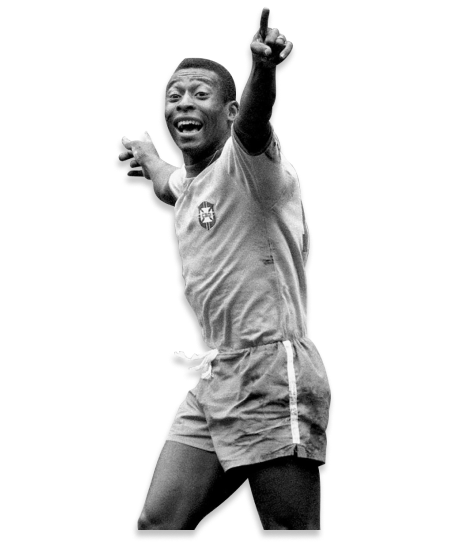
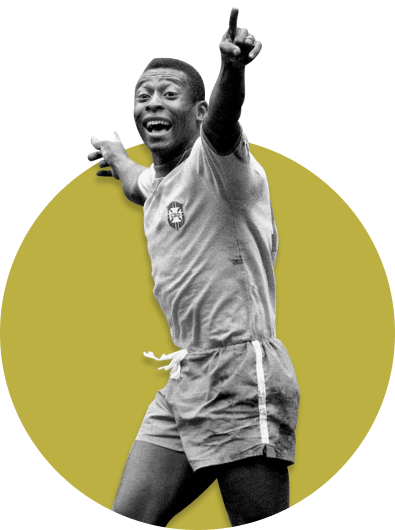
updated site

diff --git a/3cruyff.html b/3cruyff.html
@@ -12,26 +12,26 @@
           <nav>
               <ul>
                   <li><a href="1pele.html">Pelé<a></li>
-                  <li><a href="#">link<a></li>
-                  <li><a href="#">link<a></li>
-                  <li><a href="#">link<a></li>
+                  <li><a href="2maradona.html">Maradona<a></li>
+                  <li><a href="3cruyff.html">Cruyff<a></li>
+                  <li><a href="4messi.html">Messi<a></li>
                 </ul>
         </nav>
     </header>
       <main>
           <section class="two-col">
               <div class="player">
-                  <div class="circle"></div>
                   <div class="player-pic">
-                      <img src="images/pele.png">
+                      <img src="images/cruyff.png">
                         </div>
                   </div>
                 <div class="content">
-                    <h3>Pelé</h3>
-                    <h2>Edson Arantes do Nascimento</h2>
-                    <p>Bursting onto the scene as a 17-year-old looking to avenge the tears of his father when Brazil lost the 1950 World Cup final, Pele would go on to win the World Cup on three separate occasions and make Brazil the football nation.<br><br>
-                        The Brazilian's peak is fable at this point, possibly because the world didn't really get to see it due to his injury at the 1962 World Cup, but more aptly because between 1958 and 1962, no one has ever scored more goals than him.
-                        <br><br>In fact, no footballer has ever scored more goals than Pele ever.</p>
+                    <img src="images/dutchflag.svg">
+                    <h3>Cruyff</h3>
+                    <h2>Hendrik Johannes Cruijff</h2>
+                      <p>It takes a special type of footballer to invent his own skill move - Aiden McGeady aside, obviously. Johan Cruyff did both.</p>
+                      <p>A now mythical figure, Cruyff is arguably the most influential footballer of all time; and one of the most talented too.</p>
+                      <p>The centrepiece of the 'Total Football' era, Cruyff made beautiful teams successful; a feat so incredible that we still see its effects to this day.</p>
                 
                 </div>
           </section>

diff --git a/1pele.html b/1pele.html
@@ -12,26 +12,26 @@
           <nav>
               <ul>
                   <li><a href="1pele.html">Pelé<a></li>
-                  <li><a href="#">link<a></li>
-                  <li><a href="#">link<a></li>
-                  <li><a href="#">link<a></li>
+                  <li><a href="2maradona.html">Maradona<a></li>
+                  <li><a href="3cruyff.html">Cruyff<a></li>
+                  <li><a href="4messi.html">Messi<a></li>
                 </ul>
         </nav>
     </header>
       <main>
           <section class="two-col">
               <div class="player">
-                  <div class="circle"></div>
                   <div class="player-pic">
                       <img src="images/pele.png">
                         </div>
                   </div>
                 <div class="content">
+                    <img src="images/brazilflag.svg">
                     <h3>Pelé</h3>
                     <h2>Edson Arantes do Nascimento</h2>
-                    <p>Bursting onto the scene as a 17-year-old looking to avenge the tears of his father when Brazil lost the 1950 World Cup final, Pele would go on to win the World Cup on three separate occasions and make Brazil the football nation.<br><br>
-                        The Brazilian's peak is fable at this point, possibly because the world didn't really get to see it due to his injury at the 1962 World Cup, but more aptly because between 1958 and 1962, no one has ever scored more goals than him.
-                        <br><br>In fact, no footballer has ever scored more goals than Pele ever.</p>
+                    <p>Bursting onto the scene as a 17-year-old looking to avenge the tears of his father when Brazil lost the 1950 World Cup final, Pele would go on to win the World Cup on three separate occasions and make Brazil the football nation.</p>
+                    <p>The Brazilian's peak is fable at this point, possibly because the world didn't really get to see it due to his injury at the 1962 World Cup, but more aptly because between 1958 and 1962, no one has ever scored more goals than him.</p>
+                    <p>In fact, no footballer has ever scored more goals than Pele ever.</p>
                 
                 </div>
           </section>

diff --git a/index.html b/index.html
@@ -12,26 +12,26 @@
           <nav>
               <ul>
                   <li><a href="1pele.html">Pelé<a></li>
-                  <li><a href="#">link<a></li>
-                  <li><a href="#">link<a></li>
-                  <li><a href="#">link<a></li>
+                  <li><a href="2maradona.html">Maradona<a></li>
+                  <li><a href="3cruyff.html">Cruyff<a></li>
+                  <li><a href="4messi.html">Messi<a></li>
                 </ul>
         </nav>
     </header>
       <main>
           <section class="two-col">
               <div class="player">
-                  <div class="circle"></div>
                   <div class="player-pic">
                       <img src="images/pele.png">
                         </div>
                   </div>
                 <div class="content">
+                    <img src="images/brazilflag.svg">
                     <h3>Pelé</h3>
                     <h2>Edson Arantes do Nascimento</h2>
-                    <p>Bursting onto the scene as a 17-year-old looking to avenge the tears of his father when Brazil lost the 1950 World Cup final, Pele would go on to win the World Cup on three separate occasions and make Brazil the football nation.<br><br>
-                        The Brazilian's peak is fable at this point, possibly because the world didn't really get to see it due to his injury at the 1962 World Cup, but more aptly because between 1958 and 1962, no one has ever scored more goals than him.
-                        <br><br>In fact, no footballer has ever scored more goals than Pele ever.</p>
+                    <p>Bursting onto the scene as a 17-year-old looking to avenge the tears of his father when Brazil lost the 1950 World Cup final, Pele would go on to win the World Cup on three separate occasions and make Brazil the football nation.</p>
+                    <p>The Brazilian's peak is fable at this point, possibly because the world didn't really get to see it due to his injury at the 1962 World Cup, but more aptly because between 1958 and 1962, no one has ever scored more goals than him.</p>
+                    <p>In fact, no footballer has ever scored more goals than Pele ever.</p>
                 
                 </div>
           </section>

diff --git a/style.css b/style.css
@@ -9,14 +9,29 @@
     padding: 0;
 }
 
+a{
+    color: #e9e9e9;
+}
+a:hover {
+    color: #677A52;
+}
+a:active {
+    font-weight:bold;
+    color: #677A52;
+}
+a:link {
+    text-decoration: none;
+}
+
 body { 
-    margin:0;
-    background-color: #e9e9e9;
+    margin:-10;
+	background: #e9e9e9 url('../images/background.png');
+    width: 100vw;
 }
 header {
     display: flex;
     margin: bottom;
-    height: 156px;
+    height: 140px;
     background-color: #071013;
 }
 nav { 
@@ -29,6 +44,8 @@ nav ul {
     display: flex;
     list-style-type: none;
     justify-content: space-between;
+    color: #e9e9e9;
+    font-family: 'Source Sans Pro', sans-serif;
 }
 nav li {
     flex: 1;
@@ -39,14 +56,14 @@ main {
     
 }
 h1 {
-    margin-left: 40px;
+    margin-left: 30px;
     margin-bottom: 5px;
     font-size: 40px;
     color:#e9e9e9;
     font-family: 'Source Sans Pro', sans-serif;
 }
 h2 {
-    margin-left: 40px;
+    margin-left: 30px;
     margin-top: 0px;
     font-size: 14px;
     font-weight: 500;
@@ -54,19 +71,19 @@ h2 {
     font-family: 'Source Sans Pro', sans-serif;
 }
 h3 {
-    margin-left: 40px;
+    margin-left: 30px;
     margin-bottom: 5px;
+    margin-top:10px;
     font-size: 40px;
     color:#071013;
     font-family: 'Source Sans Pro', sans-serif;
     font-weight: 900;
 }
 p {
-    margin-left: 40px;
-    margin-top: 0px;
+    margin-left: 30px;
     font-size: 14px;
     font-weight: 500;
-    line-height: 18px;
+    line-height: 20px;
     color: #071013;
     font-family: 'Source Sans Pro', sans-serif;
     width: 500px;
@@ -83,27 +100,26 @@ p {
 }
 .two-col {
     display: flex;
-    width: 70%;
+    width: 950px;
     margin: auto;
 }
 
 .player { flex: 40%;
     position: relative;}
-.circle {
-    background-color: #BCB042;
-    width:395px;
-    height: 395px;
-    border-radius:50%;
-    margin-top: 200px;
-}
+
 .player-pic img {
     position: absolute;
-    top: 100px;
-    left: 60px;
+    width: 100%;
+    top: 70px;
 }
 
 .content { 
     flex: 60%; 
-    margin-top: 210px;
+    margin-top: 230px;
+}
+
+.content  img {
+    margin-top: 3px;
+    margin-left: 30px;
 }
 
